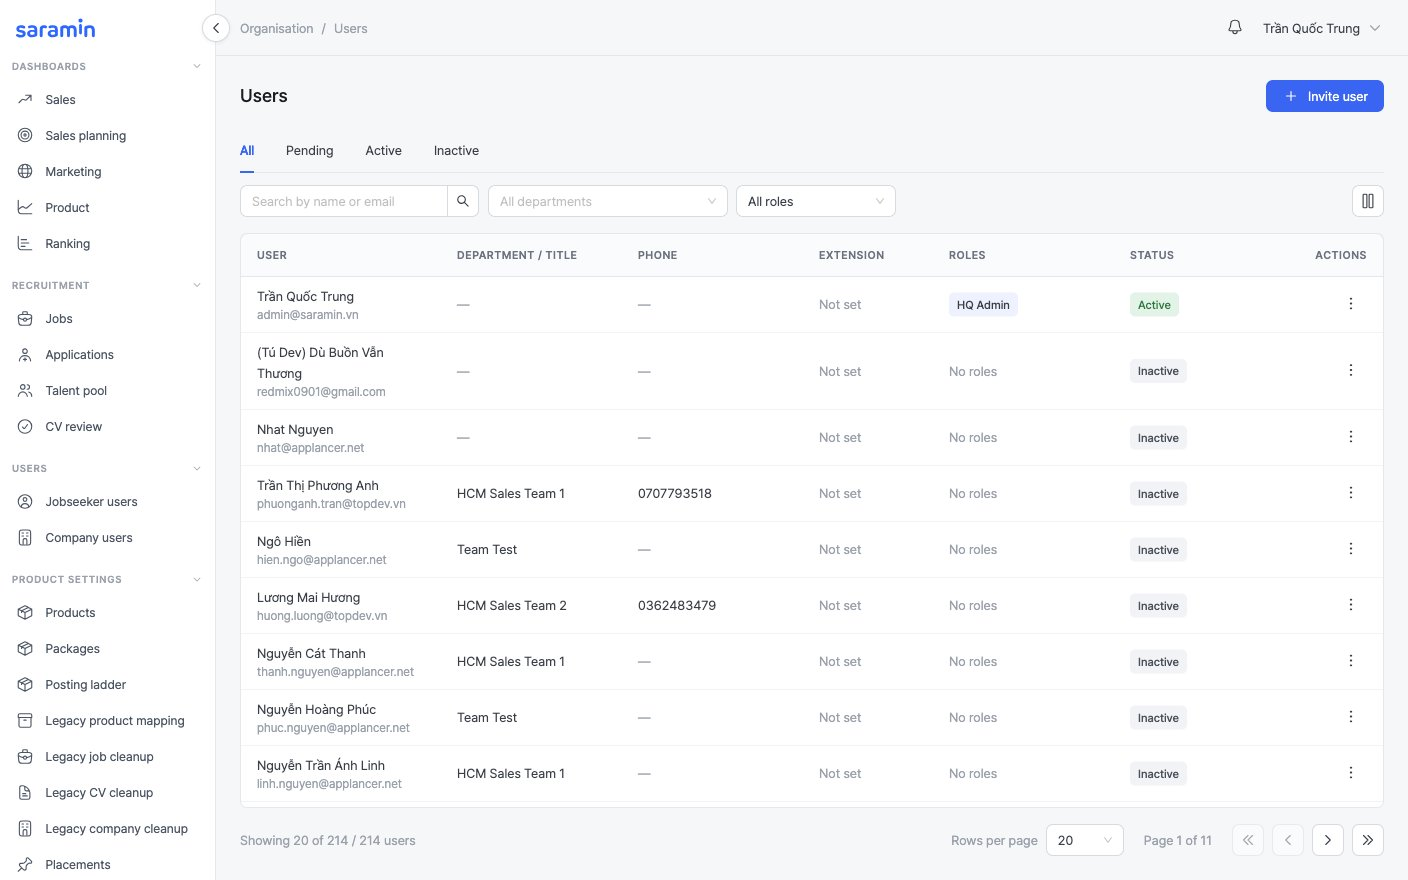
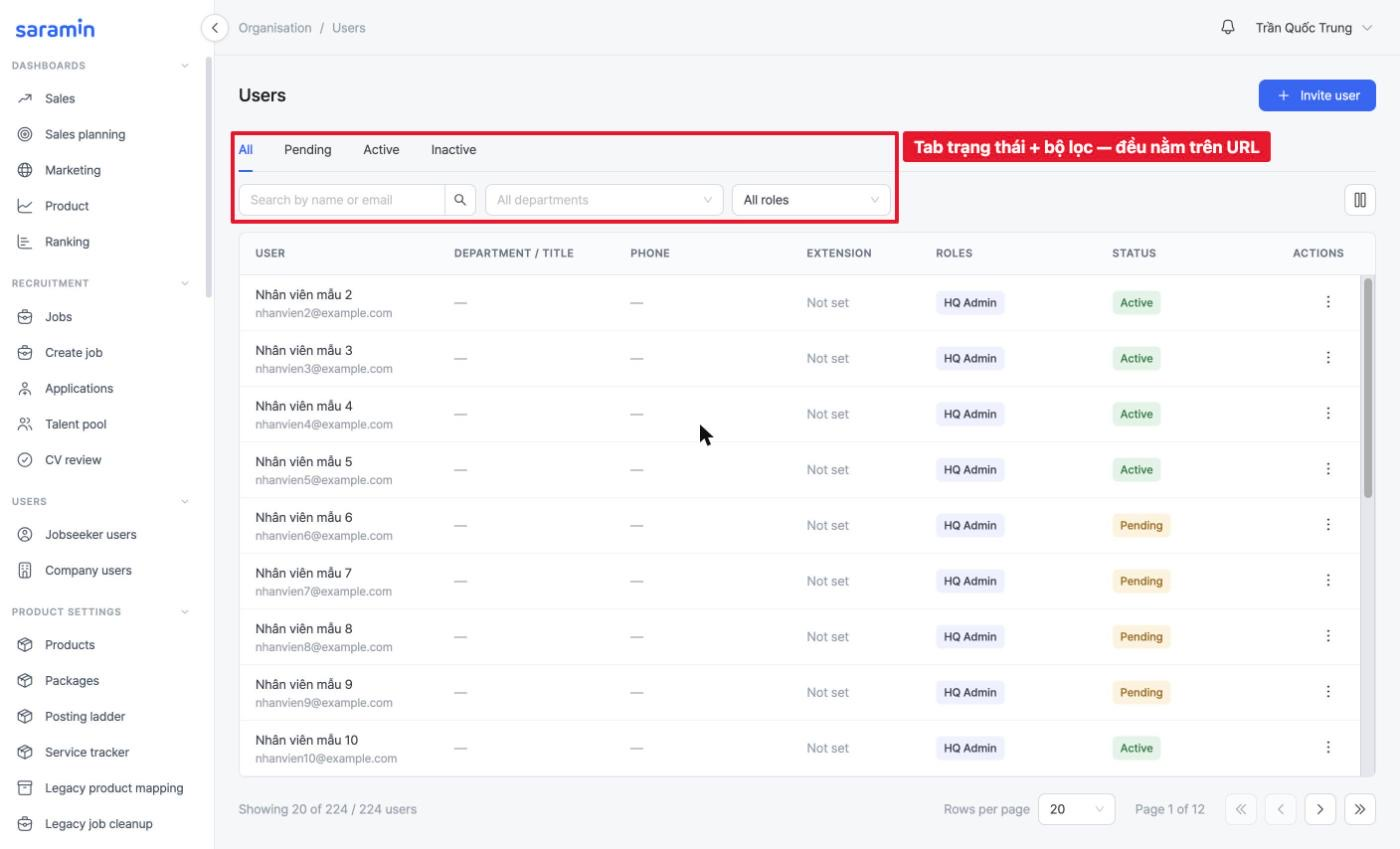
docs(shots): staging admin screenshots for Jobseeker users, Users, Master data, Image gallery
Jobseeker users gets the list and the Deleted tab; Master data gets
taxonomy, Skills and Missing skills; Image gallery gets library, set
detail and bulk create, replacing the 'no screenshot yet' note.
The Organisation users-list shot is retaken with sample names and
emails — the old one showed a personal Gmail and phone numbers.
Jobseeker users now says 5 stat cards, as the screen shows.

diff --git a/src/pagedocs/users-org.ts b/src/pagedocs/users-org.ts
@@ -336,6 +336,13 @@ export const USERS_ORG_PAGE_DOCS: Record<string, PageDoc> = {
       /* §6 */
       { kind: 'h', text: '§6 · Admin (HQ)', path: '/users/jobseekers' },
       {
+        kind: 'shot',
+        src: '/shots/users/jobseekers-list.jpg',
+        where: 'Admin',
+        caption: 'Trang **Jobseeker users**: hàng **thẻ số liệu** trên cùng, dưới là **tab trạng thái** *All · Active · Deactivated · Deleted · Inactive*, rồi ô tìm, bộ lọc cách đăng nhập, khoảng ngày và *Export Excel*.',
+        note: 'Ảnh môi trường staging ngày 25/11/2026. Tên, email và số điện thoại ứng viên đã được thay bằng dữ liệu mẫu.',
+      },
+      {
         kind: 'table',
         heading: 'Quyền cần có',
         note: '**Trên lưới quyền không có dòng “Jobseeker users”.** Các quyền `candidate:*` nằm ở dòng **Talent pool** (nhóm Recruitment). Theo seed **chỉ HQ Admin** có `candidate:*` — trên vai trò khác ô *Update* / *Export* của Talent pool thường hiện **Partial**; tick ô đó là cấp luôn quyền khoá / xoá tài khoản ứng viên.',
@@ -358,7 +365,7 @@ export const USERS_ORG_PAGE_DOCS: Record<string, PageDoc> = {
       {
         kind: 'table',
         heading: '6.1 Jobseeker users — thao tác theo trạng thái',
-        note: 'Đầu trang có **4 thẻ số liệu**: Accounts · Active · Deactivated · New this month. Ngoài ra còn **Create**, **Edit profile**, **Export** và **Resend verification**.',
+        note: 'Đầu trang có **5 thẻ số liệu**: Accounts · Active · Inactive · Deactivated · New this month. Ngoài ra còn **Create**, **Edit profile**, **Export** và **Resend verification**.',
         cols: ['Trạng thái của dòng', 'Thao tác'],
         rows: [
           ['Active', '**Deactivate** (lý do không bắt buộc) · **Send password reset** · **Delete** (ở trang chi tiết)'],
@@ -375,7 +382,7 @@ export const USERS_ORG_PAGE_DOCS: Record<string, PageDoc> = {
       {
         kind: 'warn',
         text:
-          'Notion mô tả **6 thẻ** (thêm Withdrawn, Deleted), lọc theo **nguồn đăng ký**, cột **số nhà tuyển dụng đã mở khoá** mỗi CV, và audit riêng cho việc **mở CV / bỏ che liên hệ**. Bản dựng: **4 thẻ**, **không** có bộ lọc nguồn đăng ký (backend có `signupSource` nhưng UI chưa dùng), **không** có số lượt mở khoá (nằm ở billing), và **không che email** — chỉ ghi audit khi mở trang chi tiết.',
+          'Notion mô tả **6 thẻ** (thêm Withdrawn, Deleted), lọc theo **nguồn đăng ký**, cột **số nhà tuyển dụng đã mở khoá** mỗi CV, và audit riêng cho việc **mở CV / bỏ che liên hệ**. Bản dựng: **5 thẻ** (có Inactive, không có Withdrawn / Deleted), **không** có bộ lọc nguồn đăng ký (backend có `signupSource` nhưng UI chưa dùng), **không** có số lượt mở khoá (nằm ở billing), và **không che email** — chỉ ghi audit khi mở trang chi tiết.',
       },
       {
         kind: 'table',
@@ -391,6 +398,13 @@ export const USERS_ORG_PAGE_DOCS: Record<string, PageDoc> = {
           ['Email block', 'Địa chỉ có bị chặn đăng ký lại không'],
           ['Reason', 'Lý do ứng viên chọn, hoặc ghi chú của HQ'],
         ],
+      },
+      {
+        kind: 'shot',
+        src: '/shots/users/jobseekers-deleted.jpg',
+        where: 'Admin',
+        caption: 'Tab **Deleted**. Ba cột trong khung đỏ trả lời ba câu hỏi hay gặp: **ai xoá** (*Withdrawn* = chính ứng viên, hoặc HQ), **lần huỷ 72 giờ đã chạy chưa** (*Pending* / *Erased*), và **email có bị chặn đăng ký lại không**. Nút **Check email block** ở góc trên để tra và gỡ chặn một email.',
+        note: 'Ảnh môi trường staging ngày 25/11/2026.',
       },
       {
         kind: 'list',
@@ -980,6 +994,13 @@ export const USERS_ORG_PAGE_DOCS: Record<string, PageDoc> = {
       },
 
       { kind: 'h', text: '§1 · Danh sách', path: '/system/users' },
+      {
+        kind: 'shot',
+        src: '/shots/org/20-users-list.jpg',
+        where: 'Admin',
+        caption: 'Danh sách **Users**. Tab trạng thái, ô tìm, lọc phòng ban và lọc vai trò trong khung đỏ — tất cả nằm trên URL, gửi link là người nhận thấy đúng view đó.',
+        note: 'Ảnh môi trường staging ngày 25/11/2026. Tên và email nhân viên đã được thay bằng dữ liệu mẫu.',
+      },
       {
         kind: 'table',
         heading: 'Cột',
@@ -1618,7 +1639,7 @@ export const USERS_ORG_MODULE_DOCS: Record<string, ModuleDoc> = {
         src: '/shots/org/20-users-list.jpg',
         where: 'Admin',
         caption:
-          'Danh sách Users trên production: **214 tài khoản**, tab **All · Pending · Active · Inactive**, lọc theo **phòng ban** (chọn một phòng ban là **gồm cả các team của nó**) và theo **vai trò**. Ô tìm kiếm theo tên hoặc email **không phân biệt dấu**.',
+          'Danh sách Users: tab **All · Pending · Active · Inactive**, lọc theo **phòng ban** (chọn một phòng ban là **gồm cả các team của nó**) và theo **vai trò**. Ô tìm kiếm theo tên hoặc email **không phân biệt dấu**.',
       },
       {
         kind: 'table',

diff --git a/src/pagedocs/product-service.ts b/src/pagedocs/product-service.ts
@@ -597,6 +597,13 @@ export const PRODUCT_SERVICE_PAGE_DOCS: Record<string, PageDoc> = {
           '**Trang này vừa được thay hoàn toàn** — bản `v1.0.13`, gắn thẻ 10/11/2026. Kho ảnh cũ — ảnh rời, trường *Frame* với *Wordmark / Thumbnail / Photo — portrait*, *Topics*, và luồng **import .xlsx** kèm *Download template* — **không còn nữa**. Thay vào đó là cụm ảnh ba khung, tag tự tạo, và một **bảng nhập hàng loạt ngay trong admin** thay cho file Excel. Ai đọc bản hướng dẫn trước đó xin bỏ toàn bộ phần import .xlsx.',
       },
       {
+        kind: 'shot',
+        src: '/shots/ps/gallery-library.jpg',
+        where: 'Admin',
+        caption: '**Thư viện**: mỗi thẻ là một cụm, vẽ đủ ba khung *Landscape · Portrait · Circle* đúng hình thật. Thanh lọc ở trên; hai nút tạo ở góc phải.',
+        note: 'Ảnh môi trường staging ngày 25/11/2026.',
+      },
+      {
         kind: 'table',
         heading: 'Ba khung — kích thước thật, và khung nào in ở đâu',
         note: 'Đây là kích thước **đã nhân đôi** mà thẻ công khai thu nhỏ xuống, nên file khung không bao giờ bị kéo giãn. Ảnh phải **lớn hơn hoặc bằng** khung; sai tỉ lệ quá **2 %** thì phải cắt.',
@@ -622,6 +629,13 @@ export const PRODUCT_SERVICE_PAGE_DOCS: Record<string, PageDoc> = {
         ],
       },
       {
+        kind: 'shot',
+        src: '/shots/ps/gallery-set-detail.jpg',
+        where: 'Admin',
+        caption: '**Chi tiết một cụm**: mục **Frames** cho từng khung *Crop · Replace · Remove*; mục **Details** sửa hạn bản quyền, ngành và tag rồi lưu một lần; nút **Archive** ở góc trên — không có Delete.',
+        note: 'Ảnh môi trường staging ngày 25/11/2026. Nút Crop mờ vì các khung của cụm này được tải lên không kèm ảnh gốc.',
+      },
+      {
         kind: 'table',
         heading: 'Vòng đời một cụm',
         cols: ['Tình trạng', 'Nghĩa', 'Vào bằng cách', 'Còn được chào cho tin mới?', 'Tin đang dùng'],
@@ -631,6 +645,13 @@ export const PRODUCT_SERVICE_PAGE_DOCS: Record<string, PageDoc> = {
           ['**Archived**', 'Đã nghỉ hưu', 'Nút *Archive* (cần `content_gallery:update`)', '**Không**', 'Vẫn hiện'],
         ],
         note: 'Thư viện mặc định chỉ hiện cụm **Active**; bật *Show archived* thì **chỉ** hiện cụm đã lưu trữ — hai tập không trộn, và con số tổng ở chân bảng đếm riêng từng tập. Cụm **Expired** vẫn nằm trong danh sách Active để người gia hạn còn thấy.',
+      },
+      {
+        kind: 'shot',
+        src: '/shots/ps/gallery-bulk.jpg',
+        where: 'Admin',
+        caption: '**Bulk create image sets**: mỗi dòng là một cụm. Thả ảnh vào ô khung; **Industry** là cột bắt buộc duy nhất. *Copy · Paste · Fill down* chỉ dùng cho ô chữ; cặp nút *Use file as is / Open crop frame* quyết định điều gì xảy ra khi thả ảnh sai hình.',
+        note: 'Ảnh môi trường staging ngày 25/11/2026.',
       },
       {
         kind: 'table',
@@ -653,11 +674,6 @@ export const PRODUCT_SERVICE_PAGE_DOCS: Record<string, PageDoc> = {
           '**Nhóm chọn chế độ thả ảnh** — `Use file as is` / `Open crop frame` (góc phải, trên bảng): quyết định điều gì xảy ra **khi thả một ảnh sai hình**. *Use file as is* lấy luôn; *Open crop frame* mở khung cắt để chọn vùng. Đổi lúc nào cũng được, áp cho lần thả tiếp theo.',
           '**Clear created rows** (chân bảng, chỉ hiện khi đã tạo được dòng nào): dọn các dòng đã tạo xong ra khỏi bảng để nhập tiếp, mà không phải tải lại trang.',
         ],
-      },
-      {
-        kind: 'open',
-        text:
-          '**Chưa có ảnh chụp màn hình thật cho trang này** — tính năng vừa lên `v1.0.13` ngày 10/11/2026 và `docs/qa/screenshots/` trong repo admin chưa có bộ mới. Ảnh cũ `/shots/ps/gallery.jpg` chụp **kho ảnh đời trước** nên đã gỡ khỏi trang này. Cần chụp lại: thư viện, hộp thoại *Create set*, bảng nhập hàng loạt, và trang chi tiết cụm.',
       },
     ],
   },

diff --git a/src/pagedocs/notif-system.ts b/src/pagedocs/notif-system.ts
@@ -626,6 +626,13 @@ export const NOTIF_SYSTEM_PAGE_DOCS: Record<string, PageDoc> = {
       /* ── §2 Danh sách tab ───────────────────────────────────────────────── */
       { kind: 'h', text: '§2 · Danh sách tab' },
       {
+        kind: 'shot',
+        src: '/shots/system/master-data-taxonomy.jpg',
+        where: 'Admin',
+        caption: 'Master data mở ở tab **Job taxonomy**. Trên cùng là dải tab — mỗi tab một danh mục (tab cuối nằm sau nút **…**). Bên phải: **Import / Export** để sửa hàng loạt và **New** để thêm một giá trị. Bảng là cây 3 cấp, bấm mũi tên để mở cấp con (mục 3).',
+        note: 'Ảnh môi trường staging ngày 25/11/2026.',
+      },
+      {
         kind: 'table',
         heading: '17 tab và nơi chúng được đọc',
         note: 'Thứ tự tab theo chủ đề: phân loại công việc → điều kiện một tin → mô tả ứng viên → mô tả công ty → vị trí.',
@@ -827,6 +834,13 @@ export const NOTIF_SYSTEM_PAGE_DOCS: Record<string, PageDoc> = {
       },
 
       { kind: 'h', text: '§9 · Skills' },
+      {
+        kind: 'shot',
+        src: '/shots/system/master-data-skills.jpg',
+        where: 'Admin',
+        caption: 'Tab **Skills**. Cột **Aliases** giữ các cách viết khác của cùng một kỹ năng; cột **Used in roles** đếm số job role đang gợi ý kỹ năng này.',
+        note: 'Ảnh môi trường staging ngày 25/11/2026.',
+      },
       mdTab([
         ['Gồm', 'Kỹ năng, kèm **alias** (các cách viết khác của cùng một kỹ năng). Chỉ Skills có alias'],
         ['Đọc ở đâu', 'Form tin · CV · **đọc CV / sàng CV**: khi đọc CV, hệ thống so chữ tự do trong CV với danh sách kỹ năng và alias'],
@@ -848,6 +862,13 @@ export const NOTIF_SYSTEM_PAGE_DOCS: Record<string, PageDoc> = {
       },
 
       { kind: 'h', text: '§10 · Missing skills' },
+      {
+        kind: 'shot',
+        src: '/shots/system/master-data-missing-skills.jpg',
+        where: 'Admin',
+        caption: 'Tab **Missing skills**: kỹ năng có trong CV thật nhưng chưa có trong danh mục. Cột **What to add** là gợi ý của hệ thống — *Alias of …* hoặc *New skill* — và nút **Approve** ngay cạnh.',
+        note: 'Ảnh môi trường staging ngày 25/11/2026.',
+      },
       {
         kind: 'table',
         cols: ['Mục', 'Logic'],
